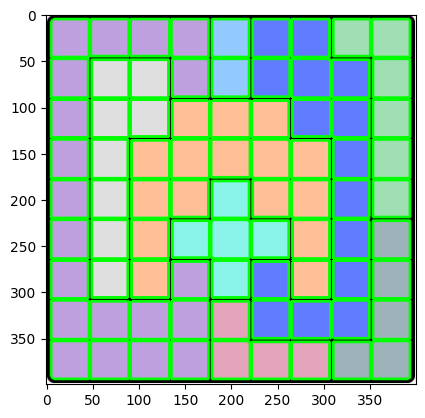
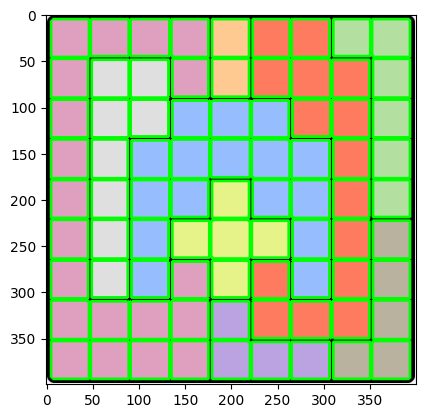
Updated documentation. Fixed colouring issue.

diff --git a/utils.py b/utils.py
@@ -117,10 +117,11 @@ def test_approx_quadri(contour, threshold=0.01):
     else:
         return False
     
+
 def find_queens_grid(img, debug=False):
     # Threshold image and find contours.
-    img_gray = cv.cvtColor(img, cv.COLOR_BGR2GRAY)
-    ret, thresh = cv.threshold(img_gray, 150, 255, cv.THRESH_BINARY)
+    img_gray = cv.cvtColor(img, cv.COLOR_RGB2GRAY)
+    ret, thresh = cv.threshold(img_gray, 120, 255, cv.THRESH_BINARY)
     contours,hierarchy = cv.findContours(thresh, cv.RETR_TREE, cv.CHAIN_APPROX_SIMPLE)
 
     # Get contours that are approximately quadrilateral, sorted by perimeter.
@@ -164,7 +165,7 @@ def find_queens_grid(img, debug=False):
     # Look for the cells of the game grid. These will be the quadrilaterals
     # that are closest to the area of the game grid divided by the number of 
     # cells, which must be a square number. 
-    tol = 0.25
+    tol = 0.3
     for i in range(4, 11):
         cell_area = cv.contourArea(game_grid) / i**2
         lb = cell_area*(1-tol)

diff --git a/Queens.py b/Queens.py
@@ -14,10 +14,10 @@ from utils import (
     plot_queens)
 
 # Load the image.
-img = cv.imread('QueensScreenshots/Screenshot 2024-11-06 at 08.31.05.png')
+img = cv.cvtColor(cv.imread('QueensScreenshots/Screenshot 2024-11-06 at 08.31.05.png'), cv.COLOR_BGR2RGB)
 
 # Find the game board and extract the colours.
-queens_array, cmap = find_queens_grid(img, debug=False)
+queens_array, cmap = find_queens_grid(img, debug=True)
 
 # Plot the game board.
 plt.imshow(img)

diff --git a/test_queens.py b/test_queens.py
@@ -17,7 +17,7 @@ from utils import (
 img_files = os.listdir('QueensScreenshots')
 for img_file in img_files:
     if img_file.endswith('.png'):
-        img = cv.imread('QueensScreenshots/' + img_file)
+        img = cv.cvtColor(cv.imread('QueensScreenshots/' + img_file), cv.COLOR_BGR2RGB)
 # img = cv.imread('QueensScreenshots/Screenshot 2024-11-06 at 08.31.05.png')
 
     # Find the game board and extract the colours.

diff --git a/README.md b/README.md
@@ -8,10 +8,75 @@ Given a screenshot such as the following
 
 ![Sample Screenshot](SampleScreenshot.png)
 
-We first need to extract the game in order to solve it. 
+We first need to extract the game in order to solve it. Using opencv, we can identify the approximate quadrilateral contours within the image. Ordering these by area, we select the largesst one assuming the largest quadrilateral in the screenshot should be the game
+
+![Sample Found](SampleGridFound.png)
+
+We then crop the image
+
+![Sample Cropped](SampleCropped.png)
+
+To find the cells, we look for $n^2$ approximate quadrilateral contours that are approximately of area $A/n^2$. Since we don't know $n$ beforeand, we search over $n \in \{4,5, \dots ,10\}$. 
+
+![Sample Cells](SampleCells.png)
+
+Once we have the cells, we need to extract the internal colour from each cell. We use the median value, which ensures that any outlier values don't skew the values. We can now convert the cells and there colour values into an array representation. The grid above becomes:
+
+```code 
+array([
+    [0, 0, 0, 0, 1, 2, 2, 3, 3],
+    [0, 4, 4, 0, 1, 2, 2, 2, 3],
+    [0, 4, 4, 5, 5, 5, 2, 2, 3],
+    [0, 4, 5, 5, 5, 5, 5, 2, 3],
+    [0, 4, 5, 5, 6, 5, 5, 2, 3],
+    [0, 4, 5, 6, 6, 6, 5, 2, 7],
+    [0, 4, 5, 0, 6, 2, 5, 2, 7],
+    [0, 0, 0, 0, 8, 2, 2, 2, 7],
+    [0, 0, 0, 0, 8, 8, 8, 7, 7]])
+```
+
+with a list that maps the region numbers to a colour (RGB vector):
+
+```code
+colors = [
+    array([0.8745098 , 0.62745098, 0.74901961]),
+    array([1.        , 0.78823529, 0.57254902]),
+    array([1.        , 0.48235294, 0.37647059]),
+    array([0.70196078, 0.8745098 , 0.62745098]),
+    array([0.8745098, 0.8745098, 0.8745098]),
+    array([0.58823529, 0.74509804, 1.        ]),
+    array([0.90196078, 0.95294118, 0.53333333]),
+    array([0.7254902 , 0.69803922, 0.61960784]),
+    array([0.73333333, 0.63921569, 0.88627451])]
+```
+
+Plotting this gives the desired result
+
+![Sample Extracted](SampleExtracted.png)
+
 
 ## MILP Solver
 
 Representing each cell on the board as a binary value, with 0 representing an empty cell, and 1 representing the presence of a Queen, we can unravel the $n \times n$ board into a vector ${\bf x} \in \{0, 1\}^{\otimes n^2}$.
 
 The rule dictating that each row and column can only contain a single Queen can be expressed as a linear constraint over ${\bf x}$
+
+```math
+\begin{bmatrix}
+    {\mathbb I}_n \otimes {\bf 1}_n^{T} \\
+    {\bf 1}_n^{T} \otimes {\mathbb I}_n
+\end{bmatrix} {\bf x} = {\bf 1}_{2n}
+```
+
+To encode the constraint to restrict adjacent Queens, we need to restrict the sum of cells in all $2 \times 2$ blocks to be less than or equal to 1. This ensures that no more than 1 Queen appears in any $2 \times 2$ block, thus ensuring the adjacency rule. In the $n^2$ vector space of ${\bf x}$, a $2 \times 2$ block is given by vectors of the form
+
+```math
+[0, \dots, 0, 1, 1, \overbrace{0,0,\dots, 0,0}^{n-2},1,1,0,\dots,0]
+```
+
+To cover all blocks on the board, the elements $1,1,\overbrace{0,0,\dots, 0,0}^{n-2},1,1$ must occupy all available valid spaces in the $n^2$ vector, note that it's possible to find an invalid configuration where the 1s straddle 2 rows. This happens exactly $n-2$ times, therefore there are $n^2 - (n+2) + 1$ positions for the $n+2$ length vector to occupy in the $n^2$ vector, and $n-2$ are invalid, giving 
+
+```math
+n^2 - (n+2) + 1 -(n-2) = (n-1)^2
+```
+
